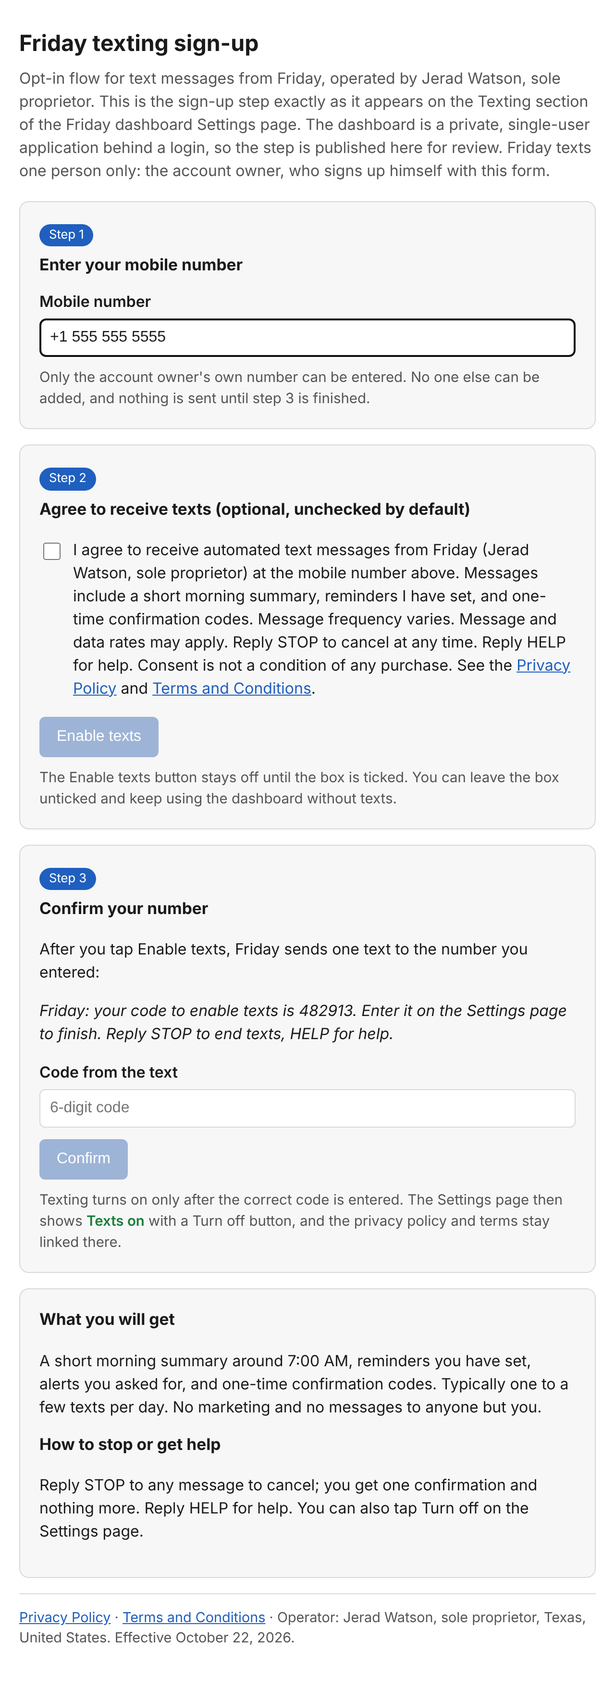
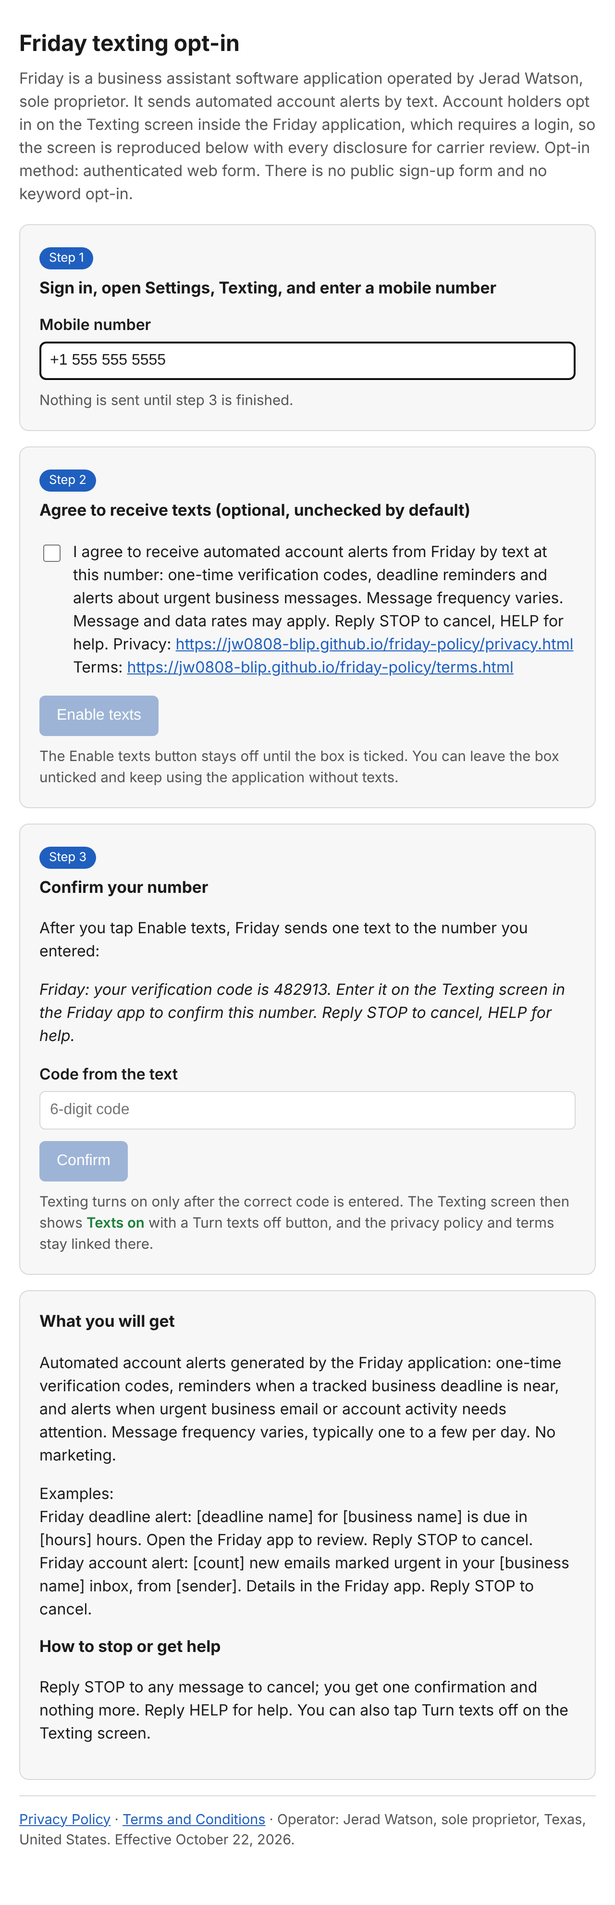
Describe Friday as an application sending account alerts; opt-in evidence quotes the in-app consent
Twilio rejected the campaign a second time (30912 personal messaging,
30893 samples, 30543 mock offered as live opt-in). The pages now describe
the application and its account alerts, name the opt-in as an
authenticated in-app form, and quote the consent text the app shows.

Claude-Session: https://claude.ai/code/session_01DVHW1sD4uNEcykzKrb9iyk

diff --git a/sms-signup.html b/sms-signup.html
@@ -3,7 +3,7 @@
 <head>
 <meta charset="utf-8">
 <meta name="viewport" content="width=device-width, initial-scale=1">
-<title>Friday texting sign-up (SMS opt-in)</title>
+<title>Friday texting opt-in</title>
 <style>
 :root { --bg:#ffffff; --fg:#1a1a1a; --muted:#555; --rule:#d9d9d9; --card:#f7f7f7; --btn:#1f5fbf; --btn-off:#9db4d6; --ok:#1b7f3b; }
 body { margin:0; background:var(--bg); color:var(--fg); font:16px/1.5 -apple-system, "Segoe UI", Helvetica, Arial, sans-serif; }
@@ -27,41 +27,42 @@ footer { color:var(--muted); font-size:0.9em; border-top:1px solid var(--rule); 
 </head>
 <body>
 <main>
-<h1>Friday texting sign-up</h1>
-<p class="meta">Opt-in flow for text messages from Friday, operated by Jerad Watson, sole proprietor. This is the sign-up step exactly as it appears on the Texting section of the Friday dashboard Settings page. The dashboard is a private, single-user application behind a login, so the step is published here for review. Friday texts one person only: the account owner, who signs up himself with this form.</p>
+<h1>Friday texting opt-in</h1>
+<p class="meta">Friday is a business assistant software application operated by Jerad Watson, sole proprietor. It sends automated account alerts by text. Account holders opt in on the Texting screen inside the Friday application, which requires a login, so the screen is reproduced below with every disclosure for carrier review. Opt-in method: authenticated web form. There is no public sign-up form and no keyword opt-in.</p>
 
 <div class="card">
   <span class="step">Step 1</span>
-  <h2>Enter your mobile number</h2>
+  <h2>Sign in, open Settings, Texting, and enter a mobile number</h2>
   <label for="mobile">Mobile number</label>
   <input id="mobile" type="tel" placeholder="+1 555 555 5555" autocomplete="tel">
-  <p class="disc">Only the account owner's own number can be entered. No one else can be added, and nothing is sent until step 3 is finished.</p>
+  <p class="disc">Nothing is sent until step 3 is finished.</p>
 </div>
 
 <div class="card">
   <span class="step">Step 2</span>
   <h2>Agree to receive texts (optional, unchecked by default)</h2>
-  <label class="consent"><input id="agree" type="checkbox"> <span>I agree to receive automated text messages from Friday (Jerad Watson, sole proprietor) at the mobile number above. Messages include a short morning summary, reminders I have set, and one-time confirmation codes. Message frequency varies. Message and data rates may apply. Reply STOP to cancel at any time. Reply HELP for help. Consent is not a condition of any purchase. See the <a href="https://jw0808-blip.github.io/friday-policy/privacy.html">Privacy Policy</a> and <a href="https://jw0808-blip.github.io/friday-policy/terms.html">Terms and Conditions</a>.</span></label>
+  <label class="consent"><input id="agree" type="checkbox"> <span>I agree to receive automated account alerts from Friday by text at this number: one-time verification codes, deadline reminders and alerts about urgent business messages. Message frequency varies. Message and data rates may apply. Reply STOP to cancel, HELP for help. Privacy: <a href="https://jw0808-blip.github.io/friday-policy/privacy.html">https://jw0808-blip.github.io/friday-policy/privacy.html</a> Terms: <a href="https://jw0808-blip.github.io/friday-policy/terms.html">https://jw0808-blip.github.io/friday-policy/terms.html</a></span></label>
   <button id="enable" type="button" disabled>Enable texts</button>
-  <p class="disc">The Enable texts button stays off until the box is ticked. You can leave the box unticked and keep using the dashboard without texts.</p>
+  <p class="disc">The Enable texts button stays off until the box is ticked. You can leave the box unticked and keep using the application without texts.</p>
 </div>
 
 <div class="card">
   <span class="step">Step 3</span>
   <h2>Confirm your number</h2>
   <p>After you tap Enable texts, Friday sends one text to the number you entered:</p>
-  <p><em>Friday: your code to enable texts is 482913. Enter it on the Settings page to finish. Reply STOP to end texts, HELP for help.</em></p>
+  <p><em>Friday: your verification code is 482913. Enter it on the Texting screen in the Friday app to confirm this number. Reply STOP to cancel, HELP for help.</em></p>
   <label for="code">Code from the text</label>
   <input id="code" type="text" inputmode="numeric" placeholder="6-digit code">
   <button type="button" disabled>Confirm</button>
-  <p class="disc">Texting turns on only after the correct code is entered. The Settings page then shows <span class="ok">Texts on</span> with a Turn off button, and the privacy policy and terms stay linked there.</p>
+  <p class="disc">Texting turns on only after the correct code is entered. The Texting screen then shows <span class="ok">Texts on</span> with a Turn texts off button, and the privacy policy and terms stay linked there.</p>
 </div>
 
 <div class="card">
   <h2>What you will get</h2>
-  <p>A short morning summary around 7:00 AM, reminders you have set, alerts you asked for, and one-time confirmation codes. Typically one to a few texts per day. No marketing and no messages to anyone but you.</p>
+  <p>Automated account alerts generated by the Friday application: one-time verification codes, reminders when a tracked business deadline is near, and alerts when urgent business email or account activity needs attention. Message frequency varies, typically one to a few per day. No marketing.</p>
+  <p>Examples:<br>Friday deadline alert: [deadline name] for [business name] is due in [hours] hours. Open the Friday app to review. Reply STOP to cancel.<br>Friday account alert: [count] new emails marked urgent in your [business name] inbox, from [sender]. Details in the Friday app. Reply STOP to cancel.</p>
   <h2>How to stop or get help</h2>
-  <p>Reply STOP to any message to cancel; you get one confirmation and nothing more. Reply HELP for help. You can also tap Turn off on the Settings page.</p>
+  <p>Reply STOP to any message to cancel; you get one confirmation and nothing more. Reply HELP for help. You can also tap Turn texts off on the Texting screen.</p>
 </div>
 
 <footer>

diff --git a/index.html b/index.html
@@ -20,22 +20,22 @@ li { margin:6px 0; }
 <body>
 <main>
 <h1>Friday Texting Service</h1>
-<p class="meta">Privacy Policy and Terms and Conditions. Effective October 20, 2026.</p>
+<p class="meta">Privacy Policy and Terms and Conditions. Effective October 22, 2026.</p>
 
-<p>Friday is a private, personal assistant texting service operated by Jerad Watson, sole proprietor. It sends text messages to one person only: the account owner, Jerad Watson. It is not offered to the public and has no other subscribers.</p>
+<p>Friday is a business assistant software application operated by Jerad Watson, sole proprietor. The application sends automated, software-generated text alerts to account holders of the Friday application who enable texting in the application. Access to the application is limited to authorized account holders; there is no public sign-up.</p>
 
 <h2 id="privacy">Privacy Policy</h2>
 <p><strong>Who sends messages.</strong> Messages are sent by Jerad Watson, sole proprietor, through a messaging provider.</p>
-<p><strong>Who receives messages.</strong> Only the account owner receives messages. The owner opts in himself by entering his own mobile number in his private, login-protected dashboard and confirming it. No one else can be added.</p>
-<p><strong>What information is collected.</strong> The owner's mobile number and the content of messages sent to it, including any replies such as STOP or HELP.</p>
+<p><strong>Who receives messages.</strong> Only account holders who opt in receive messages. An account holder opts in on the Texting screen inside the login-protected Friday application by entering a mobile number, ticking an optional consent box, and confirming a one-time code sent to that number.</p>
+<p><strong>What information is collected.</strong> The account holder's mobile number and the content of messages sent to it, including any replies such as STOP or HELP.</p>
 <p><strong>How information is used.</strong> Only to deliver the messages described in the Terms below and to honor opt-out and help requests.</p>
 <p><strong>No sharing with third parties.</strong> No mobile information will be shared with third parties or affiliates for marketing or promotional purposes. Mobile opt-in data and consent are not sold, rented, or shared with any third party. Information is shared only with the messaging provider as needed to deliver the messages.</p>
 <p><strong>Where information is kept.</strong> Message data is stored on a private server owned and controlled by Jerad Watson, protected by a private network and login. It is retained only as long as the service is in use and is deleted when the service is closed.</p>
-<p><strong>Your choices.</strong> Reply STOP at any time to cancel. Reply HELP for help. The owner can also remove his number in the dashboard.</p>
+<p><strong>Your choices.</strong> Reply STOP at any time to cancel. Reply HELP for help. The account holder can also turn texts off on the Texting screen in the application.</p>
 
 <h2 id="terms">Terms and Conditions</h2>
-<p><strong>Program description.</strong> Friday sends the account owner a short morning summary, reminders the owner has set, and one-time confirmation codes for signing in to the dashboard.</p>
-<p><strong>Opt-in.</strong> By entering his mobile number in the private dashboard and confirming it, the owner agrees to receive these automated text messages from Jerad Watson at that number. Consent is not a condition of any purchase.</p>
+<p><strong>Program description.</strong> Friday, a business assistant application operated by Jerad Watson, sole proprietor, sends automated account alerts by text: one-time verification codes, reminders when a tracked business deadline is near, and alerts when urgent business email or account activity needs attention. Messages are generated by the application; no marketing is sent.</p>
+<p><strong>Opt-in.</strong> By entering a mobile number on the Texting screen in the Friday application, ticking the optional consent box and confirming the one-time code, the account holder agrees to receive these automated text messages from Friday at that number. Consent is not a condition of any purchase.</p>
 <p><strong>Message frequency.</strong> Message frequency varies. Typically one to a few messages per day.</p>
 <p><strong>Message and data rates may apply.</strong> Standard message and data rates from your mobile carrier may apply.</p>
 <p><strong>Opt-out.</strong> Reply STOP to any message to cancel. You will receive one confirmation text and no further messages unless you opt in again.</p>
@@ -44,7 +44,7 @@ li { margin:6px 0; }
 <p><strong>Changes.</strong> These terms may be updated. The current version is always available at this page, and the effective date above will change.</p>
 
 <h2>Contact</h2>
-<p>For questions about this service, reply HELP to any message you have received from it, or contact the operator through the private dashboard's support link. Operator: Jerad Watson, sole proprietor, Texas, United States.</p>
+<p>For questions about this service, reply HELP to any message you have received from it, or contact the operator through the Friday application. Operator: Jerad Watson, sole proprietor, Texas, United States.</p>
 </main>
 </body>
 </html>

diff --git a/privacy.html b/privacy.html
@@ -20,22 +20,22 @@ li { margin:6px 0; }
 <body>
 <main>
 <h1>Friday Texting Service</h1>
-<p class="meta">Privacy Policy and Terms and Conditions. Effective October 20, 2026.</p>
+<p class="meta">Privacy Policy and Terms and Conditions. Effective October 22, 2026.</p>
 
-<p>Friday is a private, personal assistant texting service operated by Jerad Watson, sole proprietor. It sends text messages to one person only: the account owner, Jerad Watson. It is not offered to the public and has no other subscribers.</p>
+<p>Friday is a business assistant software application operated by Jerad Watson, sole proprietor. The application sends automated, software-generated text alerts to account holders of the Friday application who enable texting in the application. Access to the application is limited to authorized account holders; there is no public sign-up.</p>
 
 <h2 id="privacy">Privacy Policy</h2>
 <p><strong>Who sends messages.</strong> Messages are sent by Jerad Watson, sole proprietor, through a messaging provider.</p>
-<p><strong>Who receives messages.</strong> Only the account owner receives messages. The owner opts in himself by entering his own mobile number in his private, login-protected dashboard and confirming it. No one else can be added.</p>
-<p><strong>What information is collected.</strong> The owner's mobile number and the content of messages sent to it, including any replies such as STOP or HELP.</p>
+<p><strong>Who receives messages.</strong> Only account holders who opt in receive messages. An account holder opts in on the Texting screen inside the login-protected Friday application by entering a mobile number, ticking an optional consent box, and confirming a one-time code sent to that number.</p>
+<p><strong>What information is collected.</strong> The account holder's mobile number and the content of messages sent to it, including any replies such as STOP or HELP.</p>
 <p><strong>How information is used.</strong> Only to deliver the messages described in the Terms below and to honor opt-out and help requests.</p>
 <p><strong>No sharing with third parties.</strong> No mobile information will be shared with third parties or affiliates for marketing or promotional purposes. Mobile opt-in data and consent are not sold, rented, or shared with any third party. Information is shared only with the messaging provider as needed to deliver the messages.</p>
 <p><strong>Where information is kept.</strong> Message data is stored on a private server owned and controlled by Jerad Watson, protected by a private network and login. It is retained only as long as the service is in use and is deleted when the service is closed.</p>
-<p><strong>Your choices.</strong> Reply STOP at any time to cancel. Reply HELP for help. The owner can also remove his number in the dashboard.</p>
+<p><strong>Your choices.</strong> Reply STOP at any time to cancel. Reply HELP for help. The account holder can also turn texts off on the Texting screen in the application.</p>
 
 <h2 id="terms">Terms and Conditions</h2>
-<p><strong>Program description.</strong> Friday sends the account owner a short morning summary, reminders the owner has set, and one-time confirmation codes for signing in to the dashboard.</p>
-<p><strong>Opt-in.</strong> By entering his mobile number in the private dashboard and confirming it, the owner agrees to receive these automated text messages from Jerad Watson at that number. Consent is not a condition of any purchase.</p>
+<p><strong>Program description.</strong> Friday, a business assistant application operated by Jerad Watson, sole proprietor, sends automated account alerts by text: one-time verification codes, reminders when a tracked business deadline is near, and alerts when urgent business email or account activity needs attention. Messages are generated by the application; no marketing is sent.</p>
+<p><strong>Opt-in.</strong> By entering a mobile number on the Texting screen in the Friday application, ticking the optional consent box and confirming the one-time code, the account holder agrees to receive these automated text messages from Friday at that number. Consent is not a condition of any purchase.</p>
 <p><strong>Message frequency.</strong> Message frequency varies. Typically one to a few messages per day.</p>
 <p><strong>Message and data rates may apply.</strong> Standard message and data rates from your mobile carrier may apply.</p>
 <p><strong>Opt-out.</strong> Reply STOP to any message to cancel. You will receive one confirmation text and no further messages unless you opt in again.</p>
@@ -44,7 +44,7 @@ li { margin:6px 0; }
 <p><strong>Changes.</strong> These terms may be updated. The current version is always available at this page, and the effective date above will change.</p>
 
 <h2>Contact</h2>
-<p>For questions about this service, reply HELP to any message you have received from it, or contact the operator through the private dashboard's support link. Operator: Jerad Watson, sole proprietor, Texas, United States.</p>
+<p>For questions about this service, reply HELP to any message you have received from it, or contact the operator through the Friday application. Operator: Jerad Watson, sole proprietor, Texas, United States.</p>
 </main>
 </body>
 </html>

diff --git a/terms.html b/terms.html
@@ -20,22 +20,22 @@ li { margin:6px 0; }
 <body>
 <main>
 <h1>Friday Texting Service</h1>
-<p class="meta">Privacy Policy and Terms and Conditions. Effective October 20, 2026.</p>
+<p class="meta">Privacy Policy and Terms and Conditions. Effective October 22, 2026.</p>
 
-<p>Friday is a private, personal assistant texting service operated by Jerad Watson, sole proprietor. It sends text messages to one person only: the account owner, Jerad Watson. It is not offered to the public and has no other subscribers.</p>
+<p>Friday is a business assistant software application operated by Jerad Watson, sole proprietor. The application sends automated, software-generated text alerts to account holders of the Friday application who enable texting in the application. Access to the application is limited to authorized account holders; there is no public sign-up.</p>
 
 <h2 id="privacy">Privacy Policy</h2>
 <p><strong>Who sends messages.</strong> Messages are sent by Jerad Watson, sole proprietor, through a messaging provider.</p>
-<p><strong>Who receives messages.</strong> Only the account owner receives messages. The owner opts in himself by entering his own mobile number in his private, login-protected dashboard and confirming it. No one else can be added.</p>
-<p><strong>What information is collected.</strong> The owner's mobile number and the content of messages sent to it, including any replies such as STOP or HELP.</p>
+<p><strong>Who receives messages.</strong> Only account holders who opt in receive messages. An account holder opts in on the Texting screen inside the login-protected Friday application by entering a mobile number, ticking an optional consent box, and confirming a one-time code sent to that number.</p>
+<p><strong>What information is collected.</strong> The account holder's mobile number and the content of messages sent to it, including any replies such as STOP or HELP.</p>
 <p><strong>How information is used.</strong> Only to deliver the messages described in the Terms below and to honor opt-out and help requests.</p>
 <p><strong>No sharing with third parties.</strong> No mobile information will be shared with third parties or affiliates for marketing or promotional purposes. Mobile opt-in data and consent are not sold, rented, or shared with any third party. Information is shared only with the messaging provider as needed to deliver the messages.</p>
 <p><strong>Where information is kept.</strong> Message data is stored on a private server owned and controlled by Jerad Watson, protected by a private network and login. It is retained only as long as the service is in use and is deleted when the service is closed.</p>
-<p><strong>Your choices.</strong> Reply STOP at any time to cancel. Reply HELP for help. The owner can also remove his number in the dashboard.</p>
+<p><strong>Your choices.</strong> Reply STOP at any time to cancel. Reply HELP for help. The account holder can also turn texts off on the Texting screen in the application.</p>
 
 <h2 id="terms">Terms and Conditions</h2>
-<p><strong>Program description.</strong> Friday sends the account owner a short morning summary, reminders the owner has set, and one-time confirmation codes for signing in to the dashboard.</p>
-<p><strong>Opt-in.</strong> By entering his mobile number in the private dashboard and confirming it, the owner agrees to receive these automated text messages from Jerad Watson at that number. Consent is not a condition of any purchase.</p>
+<p><strong>Program description.</strong> Friday, a business assistant application operated by Jerad Watson, sole proprietor, sends automated account alerts by text: one-time verification codes, reminders when a tracked business deadline is near, and alerts when urgent business email or account activity needs attention. Messages are generated by the application; no marketing is sent.</p>
+<p><strong>Opt-in.</strong> By entering a mobile number on the Texting screen in the Friday application, ticking the optional consent box and confirming the one-time code, the account holder agrees to receive these automated text messages from Friday at that number. Consent is not a condition of any purchase.</p>
 <p><strong>Message frequency.</strong> Message frequency varies. Typically one to a few messages per day.</p>
 <p><strong>Message and data rates may apply.</strong> Standard message and data rates from your mobile carrier may apply.</p>
 <p><strong>Opt-out.</strong> Reply STOP to any message to cancel. You will receive one confirmation text and no further messages unless you opt in again.</p>
@@ -44,7 +44,7 @@ li { margin:6px 0; }
 <p><strong>Changes.</strong> These terms may be updated. The current version is always available at this page, and the effective date above will change.</p>
 
 <h2>Contact</h2>
-<p>For questions about this service, reply HELP to any message you have received from it, or contact the operator through the private dashboard's support link. Operator: Jerad Watson, sole proprietor, Texas, United States.</p>
+<p>For questions about this service, reply HELP to any message you have received from it, or contact the operator through the Friday application. Operator: Jerad Watson, sole proprietor, Texas, United States.</p>
 </main>
 </body>
 </html>

diff --git a/sms-signup.md b/sms-signup.md
@@ -1,40 +1,40 @@
-# Friday texting sign-up (SMS opt-in)
+# Friday texting opt-in
 
-Opt-in flow for text messages from Friday, operated by Jerad Watson, sole proprietor. This is the sign-up step exactly as it appears on the Texting section of the Friday dashboard Settings page. The dashboard is a private, single-user application behind a login, so the step is published here for review. Friday texts one person only: the account owner, who signs up himself with this form.
+Friday is a business assistant software application operated by Jerad Watson, sole proprietor. It sends automated account alerts by text. Account holders opt in on the Texting screen inside the Friday application, which requires a login, so the screen is reproduced here with every disclosure for carrier review. Opt-in method: authenticated web form. There is no public sign-up form and no keyword opt-in.
 
 Rendered page: https://jw0808-blip.github.io/friday-policy/sms-signup.html
-Screenshots: https://raw.githubusercontent.com/jw0808-blip/friday-policy/main/sms-signup-screenshot.png (consent box ticked) and https://raw.githubusercontent.com/jw0808-blip/friday-policy/main/sms-signup-screenshot-default.png (default, unticked)
+Screenshots: https://jw0808-blip.github.io/friday-policy/sms-signup-screenshot.png (consent box ticked) and https://jw0808-blip.github.io/friday-policy/sms-signup-screenshot-default.png (default, unticked)
 
 ![Friday texting sign-up screenshot](sms-signup-screenshot.png)
 
-## Step 1. Enter your mobile number
+## Step 1. Sign in, open Settings, Texting, and enter a mobile number
 
 Mobile number: `+1 555 555 5555`
 
-Only the account owner's own number can be entered. No one else can be added, and nothing is sent until step 3 is finished.
+Nothing is sent until step 3 is finished.
 
 ## Step 2. Agree to receive texts (optional, unchecked by default)
 
-☐ I agree to receive automated text messages from Friday (Jerad Watson, sole proprietor) at the mobile number above. Messages include a short morning summary, reminders I have set, and one-time confirmation codes. Message frequency varies. Message and data rates may apply. Reply STOP to cancel at any time. Reply HELP for help. Consent is not a condition of any purchase. See the [Privacy Policy](privacy.md) and [Terms and Conditions](terms.md).
+☐ I agree to receive automated account alerts from Friday by text at this number: one-time verification codes, deadline reminders and alerts about urgent business messages. Message frequency varies. Message and data rates may apply. Reply STOP to cancel, HELP for help. Privacy: https://jw0808-blip.github.io/friday-policy/privacy.html Terms: https://jw0808-blip.github.io/friday-policy/terms.html
 
-[ Enable texts ] (stays off until the box is ticked; the dashboard works without texts)
+[ Enable texts ] (stays off until the box is ticked; the application works without texts)
 
 ## Step 3. Confirm your number
 
 After tapping Enable texts, Friday sends one text to the number entered:
 
-> Friday: your code to enable texts is 482913. Enter it on the Settings page to finish. Reply STOP to end texts, HELP for help.
+> Friday: your verification code is 482913. Enter it on the Texting screen in the Friday app to confirm this number. Reply STOP to cancel, HELP for help.
 
 Code from the text: `6-digit code`  [ Confirm ]
 
-Texting turns on only after the correct code is entered. The Settings page then shows "Texts on" with a Turn off button, and the privacy policy and terms stay linked there.
+Texting turns on only after the correct code is entered. The Texting screen then shows "Texts on" with a Turn texts off button, and the privacy policy and terms stay linked there.
 
 ## What you will get
 
-A short morning summary around 7:00 AM, reminders you have set, alerts you asked for, and one-time confirmation codes. Typically one to a few texts per day. No marketing and no messages to anyone but you.
+Automated account alerts generated by the Friday application: one-time verification codes, reminders when a tracked business deadline is near, and alerts when urgent business email or account activity needs attention. Message frequency varies, typically one to a few per day. No marketing.
 
 ## How to stop or get help
 
-Reply STOP to any message to cancel; you get one confirmation and nothing more. Reply HELP for help. You can also tap Turn off on the Settings page.
+Reply STOP to any message to cancel; you get one confirmation and nothing more. Reply HELP for help. You can also tap Turn texts off on the Texting screen.
 
 Operator: Jerad Watson, sole proprietor, Texas, United States. Effective October 22, 2026.

diff --git a/privacy.md b/privacy.md
@@ -1,14 +1,14 @@
 # Friday Texting Service: Privacy Policy
 
-Effective October 20, 2026.
+Effective October 22, 2026.
 
-Friday is a private, personal assistant texting service operated by Jerad Watson, sole proprietor. It sends text messages to one person only: the account owner, Jerad Watson. It is not offered to the public and has no other subscribers.
+Friday is a business assistant software application operated by Jerad Watson, sole proprietor. The application sends automated, software-generated text alerts to account holders of the Friday application who enable texting in the application. Access to the application is limited to authorized account holders; there is no public sign-up.
 
 **Who sends messages.** Messages are sent by Jerad Watson, sole proprietor, through a messaging provider.
 
-**Who receives messages.** Only the account owner receives messages. The owner opts in himself by entering his own mobile number in his private, login-protected dashboard and confirming it. No one else can be added.
+**Who receives messages.** Only account holders who opt in receive messages. An account holder opts in on the Texting screen inside the login-protected Friday application by entering a mobile number, ticking an optional consent box, and confirming a one-time code sent to that number.
 
-**What information is collected.** The owner's mobile number and the content of messages sent to it, including any replies such as STOP or HELP.
+**What information is collected.** The account holder's mobile number and the content of messages sent to it, including any replies such as STOP or HELP.
 
 **How information is used.** Only to deliver the messages described in the Terms and to honor opt-out and help requests.
 
@@ -16,8 +16,8 @@ Friday is a private, personal assistant texting service operated by Jerad Watson
 
 **Where information is kept.** Message data is stored on a private server owned and controlled by Jerad Watson, protected by a private network and login. It is retained only as long as the service is in use and is deleted when the service is closed.
 
-**Your choices.** Reply STOP at any time to cancel. Reply HELP for help. The owner can also remove his number in the dashboard.
+**Your choices.** Reply STOP at any time to cancel. Reply HELP for help. The account holder can also turn texts off on the Texting screen in the application.
 
-**Contact.** Reply HELP to any message you have received from this service, or contact the operator through the private dashboard's support link. Operator: Jerad Watson, sole proprietor, Texas, United States.
+**Contact.** Reply HELP to any message you have received from this service, or contact the operator through the Friday application. Operator: Jerad Watson, sole proprietor, Texas, United States.
 
 See also the [Terms and Conditions](terms.md).

diff --git a/terms.md b/terms.md
@@ -1,10 +1,10 @@
 # Friday Texting Service: Terms and Conditions
 
-Effective October 20, 2026.
+Effective October 22, 2026.
 
-**Program description.** Friday sends the account owner a short morning summary, reminders the owner has set, and one-time confirmation codes for signing in to the dashboard. The sender is Jerad Watson, sole proprietor. The only recipient is the account owner.
+**Program description.** Friday, a business assistant application operated by Jerad Watson, sole proprietor, sends automated account alerts by text: one-time verification codes, reminders when a tracked business deadline is near, and alerts when urgent business email or account activity needs attention. Messages are generated by the application; no marketing is sent.
 
-**Opt-in.** By entering his mobile number in the private dashboard and confirming it, the owner agrees to receive these automated text messages from Jerad Watson at that number. Consent is not a condition of any purchase.
+**Opt-in.** By entering a mobile number on the Texting screen in the Friday application, ticking the optional consent box and confirming the one-time code, the account holder agrees to receive these automated text messages from Friday at that number. Consent is not a condition of any purchase.
 
 **Message frequency.** Message frequency varies. Typically one to a few messages per day.
 
@@ -18,6 +18,6 @@ Effective October 20, 2026.
 
 **Changes.** These terms may be updated. The current version is always available at this page, and the effective date above will change.
 
-**Contact.** Reply HELP to any message you have received from this service, or contact the operator through the private dashboard's support link. Operator: Jerad Watson, sole proprietor, Texas, United States.
+**Contact.** Reply HELP to any message you have received from this service, or contact the operator through the Friday application. Operator: Jerad Watson, sole proprietor, Texas, United States.
 
 See also the [Privacy Policy](privacy.md).

diff --git a/README.md b/README.md
@@ -1,6 +1,6 @@
 # Friday texting service
 
-Privacy policy and terms for Friday, a private single-user personal assistant texting service operated by Jerad Watson, sole proprietor.
+Privacy policy, terms and texting opt-in evidence for Friday, a business assistant application operated by Jerad Watson, sole proprietor.
 
 - [Privacy Policy](privacy.md)
 - [Terms and Conditions](terms.md)
